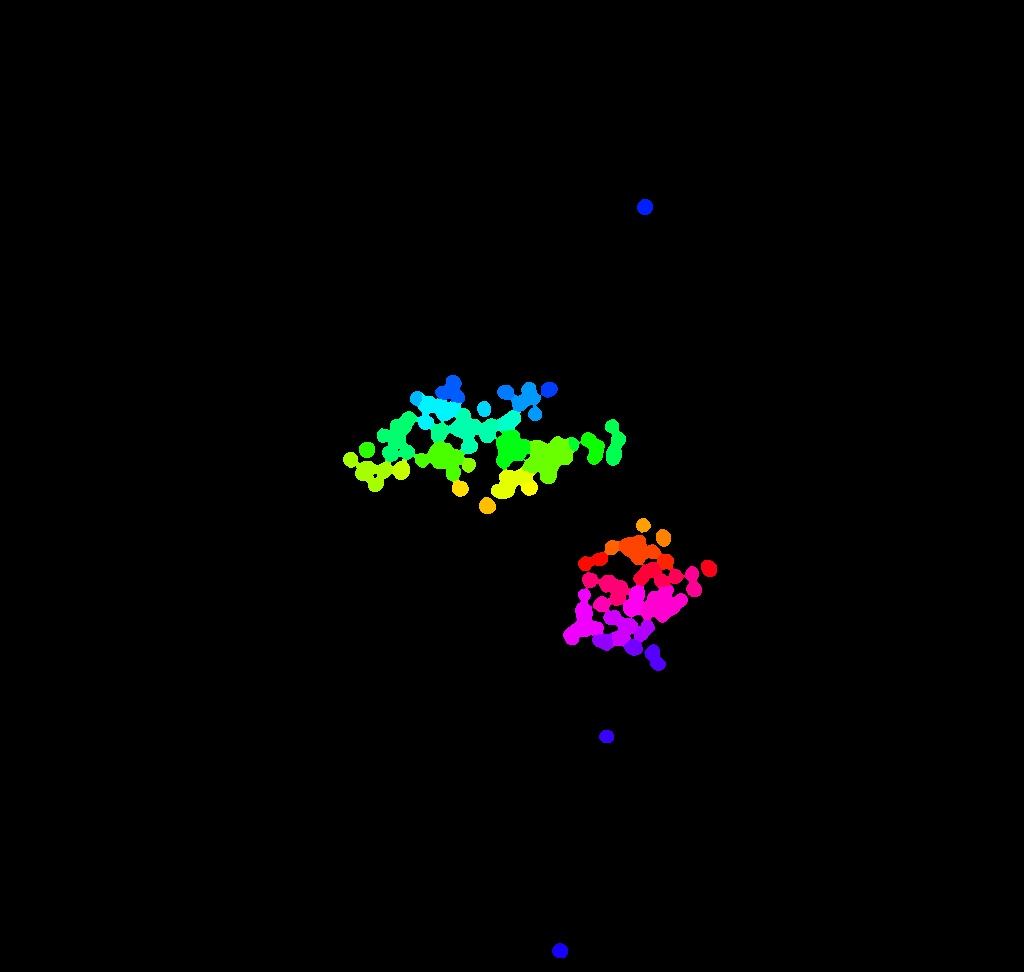
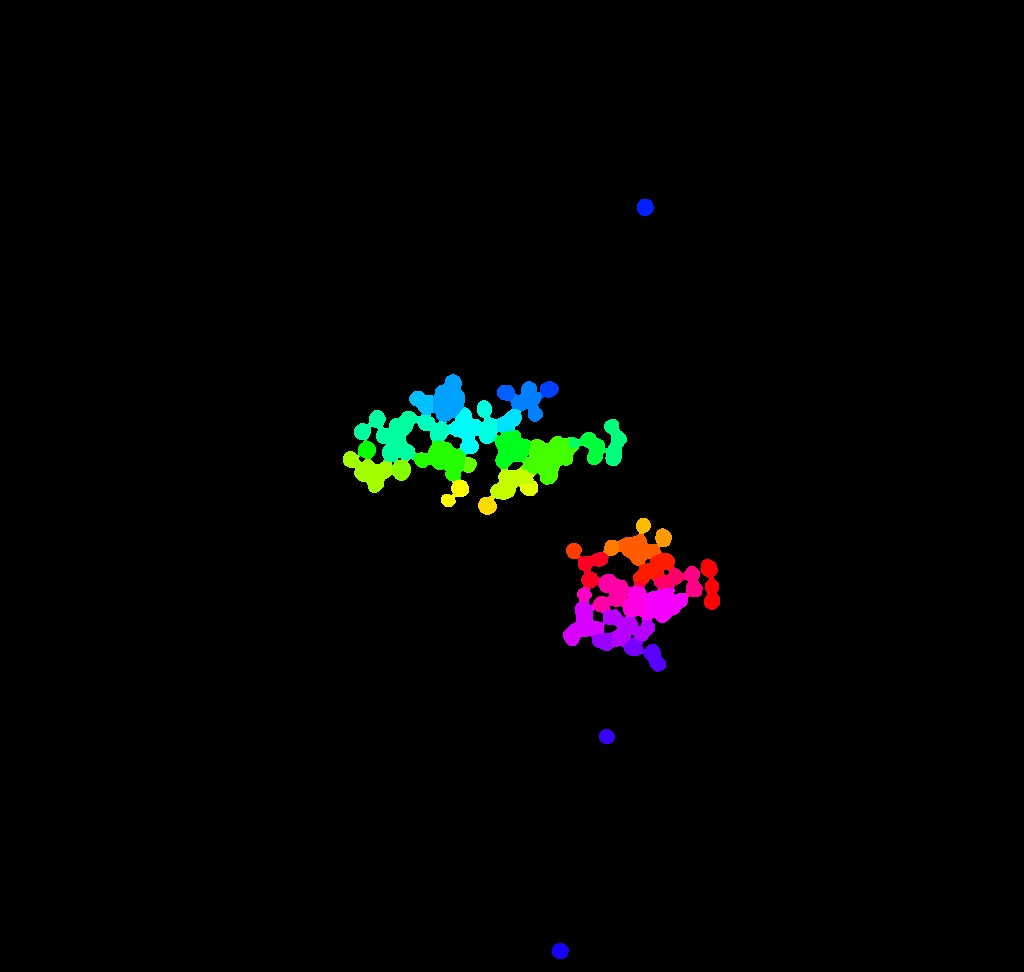
better thresholding method

Changed region(s): [[0.3438, 0.3704, 0.625, 0.5247], [0.5312, 0.5247, 0.7188, 0.679], [0.5312, 0.9568, 0.5625, 0.9877]]

diff --git a/img_fcn.py b/img_fcn.py
@@ -6,7 +6,7 @@ import json
 
 from skimage import filters, morphology, img_as_ubyte
 from skimage.io import imread
-from skimage.filters import threshold_otsu
+from skimage.filters import threshold_otsu, threshold_minimum
 from skimage.color import rgb2gray, gray2rgb
 from skimage.segmentation import watershed
 from skimage.feature import peak_local_max, canny
@@ -111,7 +111,7 @@ def filtering_img(img_raw, scale, type, pixel_size):
 
 
 
-def watershed_transform(img_filtered):
+def watershed_transform(img_filtered, np_type):
     """Function for labeling of image using calculated 
     distance map and markers for watershed transform
 
@@ -122,9 +122,12 @@ def watershed_transform(img_filtered):
     Returns:
         numpy.ndarray: labeled image
     """
-    thresh = threshold_otsu(img_filtered)
-    binary = img_filtered < thresh
+    if np_type == 'nanoparticles':
+        thresh = threshold_minimum(img_filtered)
+    else:
+        thresh = threshold_otsu(img_filtered)
 
+    binary = img_filtered < thresh
     distance = ndi.distance_transform_edt(binary)
 
     coords = peak_local_max(
@@ -133,7 +136,6 @@ def watershed_transform(img_filtered):
     mask[tuple(coords.T)] = True
 
     markers, _ = ndi.label(mask)
-
     labels = watershed(-distance, markers, mask = binary)
 
     return labels, distance
@@ -432,8 +434,7 @@ if __name__ == '__main__':
             img_raw, scale, np_type, pixel_size)
 
         if method == 'watershed':
-
-            img, distance = watershed_transform(img_filtered)
+            img, distance = watershed_transform(img_filtered, np_type)
             diameter, sizes = calculation_watershed(img, pixel_size,
                                                     np_type)
 

diff --git a/images/json_generator.py b/images/json_generator.py
@@ -1,0 +1,21 @@
+
+'''
+Script for creating .json for scales of microscopy images.
+'''
+import os
+import json
+
+def loading(folder_path, json_path):
+    files = {}
+    with os.scandir(folder_path) as entries:
+        for entry in entries:
+            if entry.name[-3:] == ('jpg' or 'png'):
+                files[entry.name] = ['', '']
+
+    with open(json_path, 'w') as json_file:
+        json.dump(files, json_file)
+
+
+if __name__ == '__main__':
+    loading('images',
+        'scales.json')
